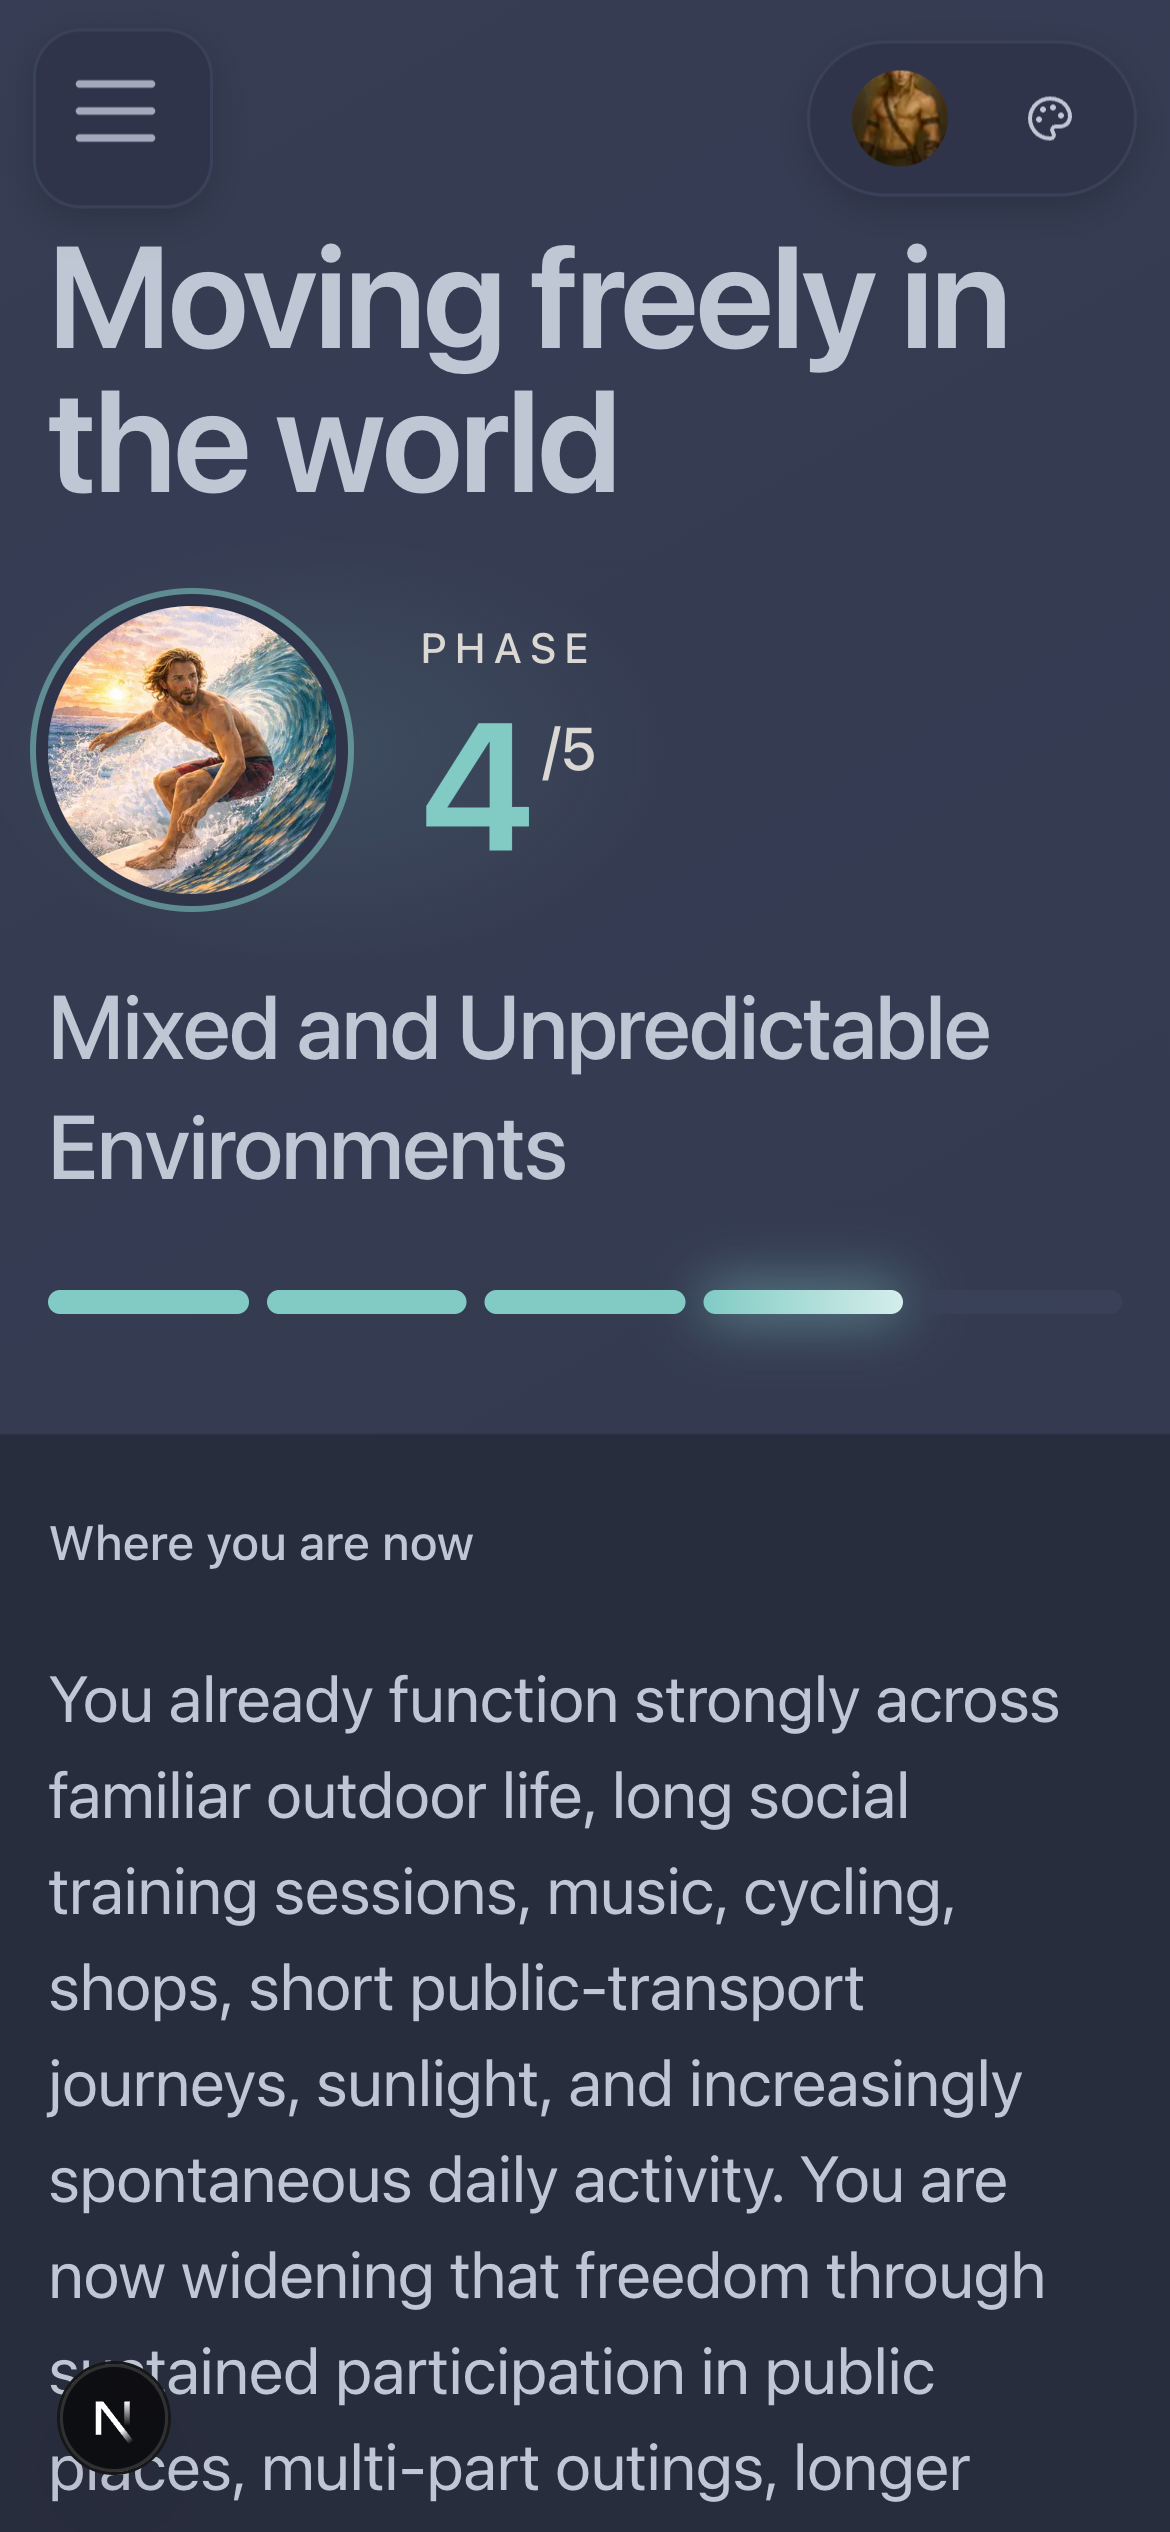
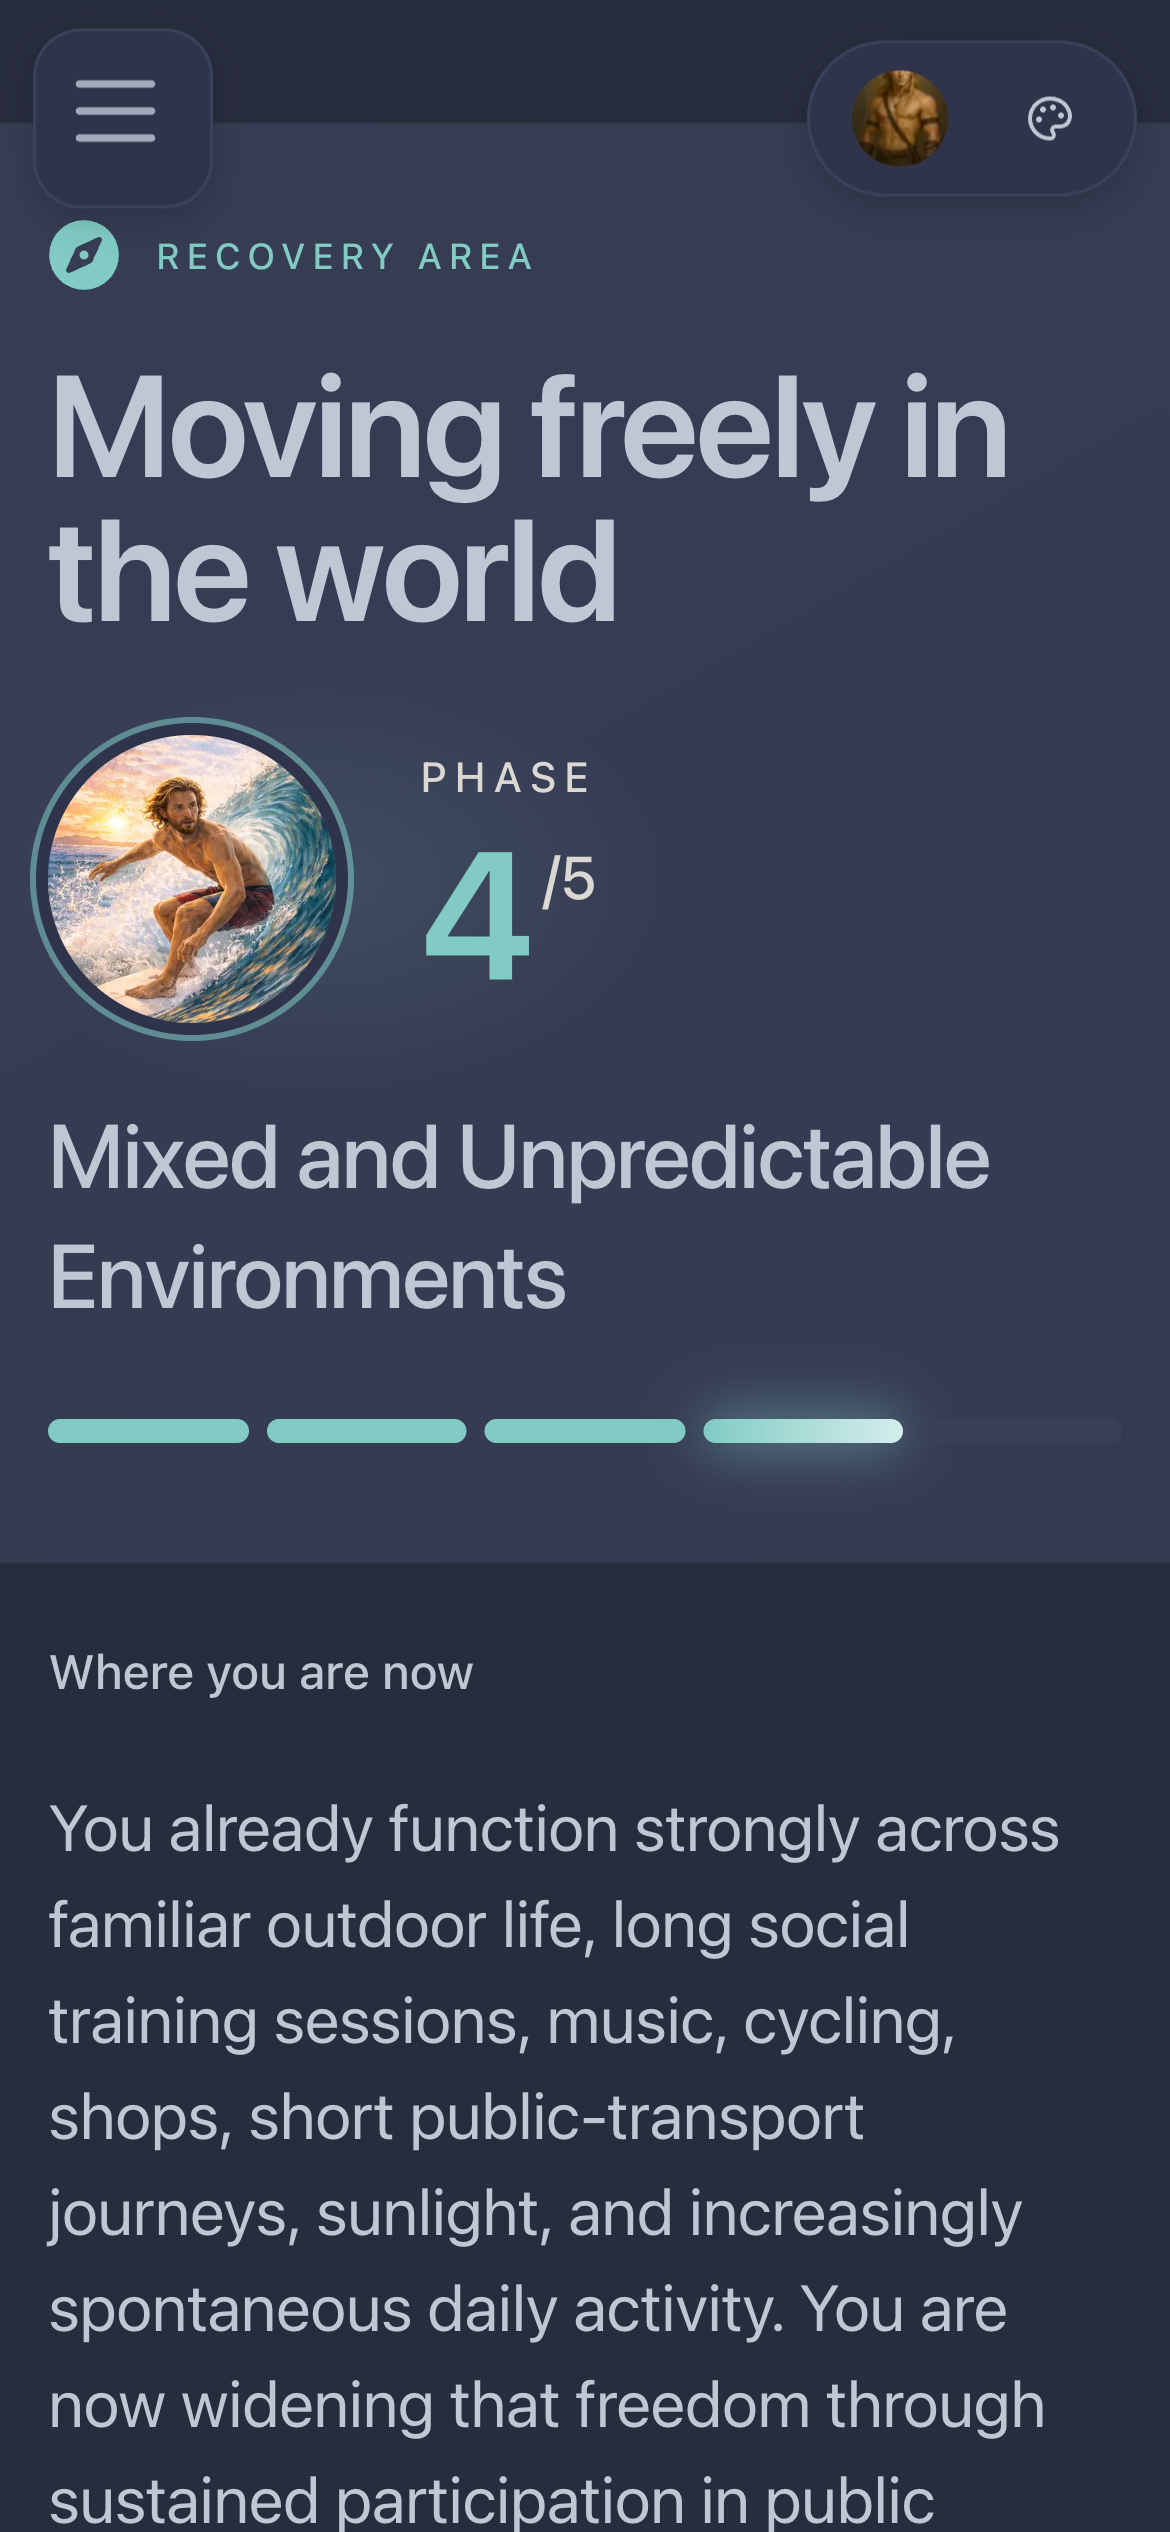
Expand DRC gallery with active missions and refresh mobile screenshot
- Add matching desktop and mobile mission screenshots as the third slide
- Include descriptive alt text and captions
- Replace the second mobile screenshot with a badge-free capture

Changed region(s): [[0.0, 0.0624, 0.9231, 0.624], [0.0308, 0.6552, 0.8923, 1.0], [0.7692, 0.0936, 0.8615, 0.1872]]

diff --git a/src/content/projects/daily-recovery-coach.md b/src/content/projects/daily-recovery-coach.md
@@ -15,6 +15,9 @@ images:
   - src: '02-recovery-areas-palenight.png'
     alt: 'Daily Recovery Coach My Healing page in Palenight showing five recovery areas and phase four of Moving and Light'
     caption: 'The My Healing page in Palenight, with teal accents highlighting the selected recovery area and current phase.'
+  - src: '03-active-missions.png'
+    alt: 'Daily Recovery Coach dashboard showing active missions for visiting a music venue and playing Rummikub with others'
+    caption: 'Personalised missions turn recovery goals into concrete activities, with clear duration, conditions and rest guidance.'
 mobileImages:
   - src: '01-recovery-areas-mobile.png'
     alt: 'Mobile Daily Recovery Coach My Healing page showing the Social Connection recovery area at phase two'
@@ -22,6 +25,9 @@ mobileImages:
   - src: '02-recovery-areas-palenight-mobile.png'
     alt: 'Mobile Daily Recovery Coach My Healing page in Palenight showing phase four of Moving and Light'
     caption: 'The Palenight mobile view keeps the current recovery phase and pathway guidance in focus.'
+  - src: '03-active-missions-mobile.png'
+    alt: 'Mobile Daily Recovery Coach dashboard showing the Stay where music lives mission with duration, conditions, rest guidance and logging controls'
+    caption: 'Personalised missions turn recovery goals into concrete activities, with clear duration, conditions and rest guidance.'
 links: {} # TODO: Add a public or access-request URL if appropriate. Source remains private.
 startDate: '2025-01-01' # Approximate; confirm the project start date.
 launchDate: '2026-09-15' # Current portfolio release of the working pre-release MVP.
